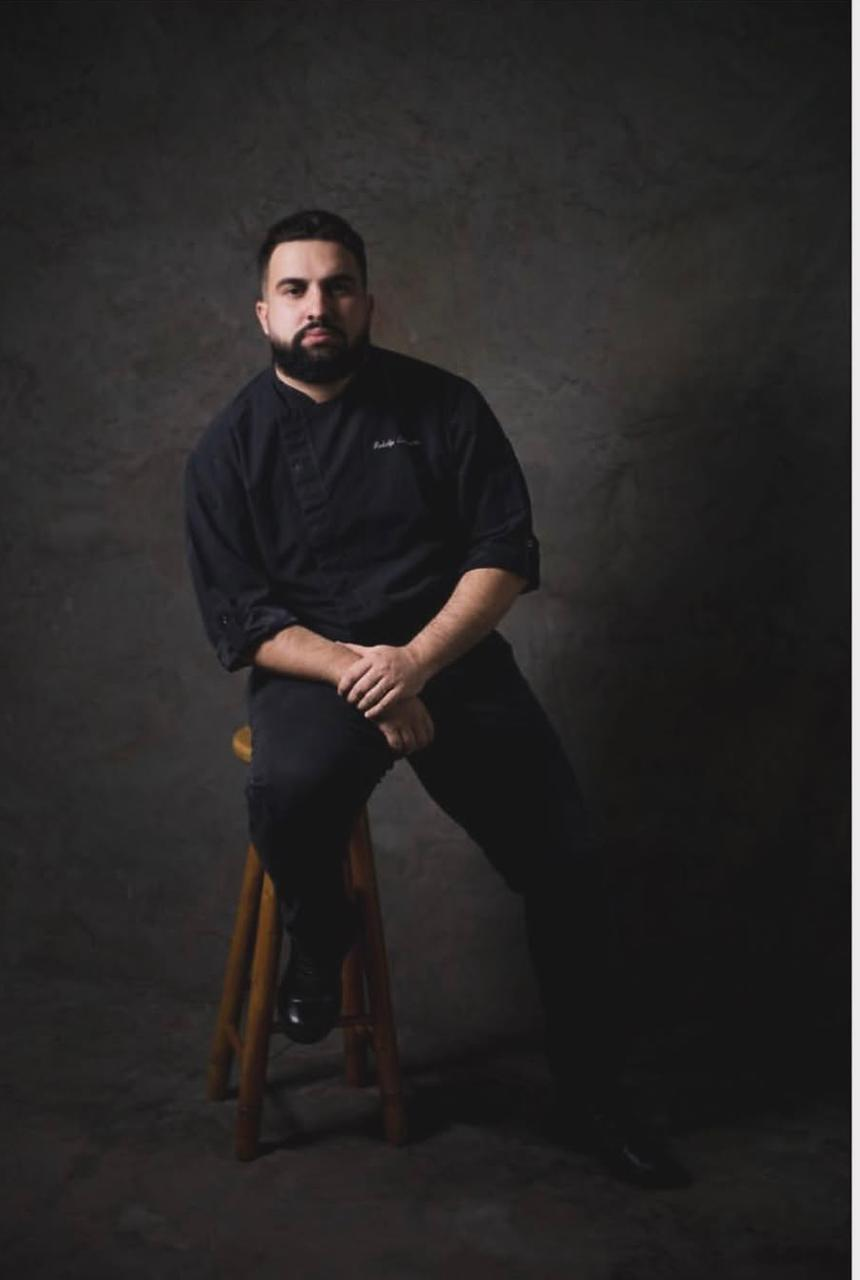
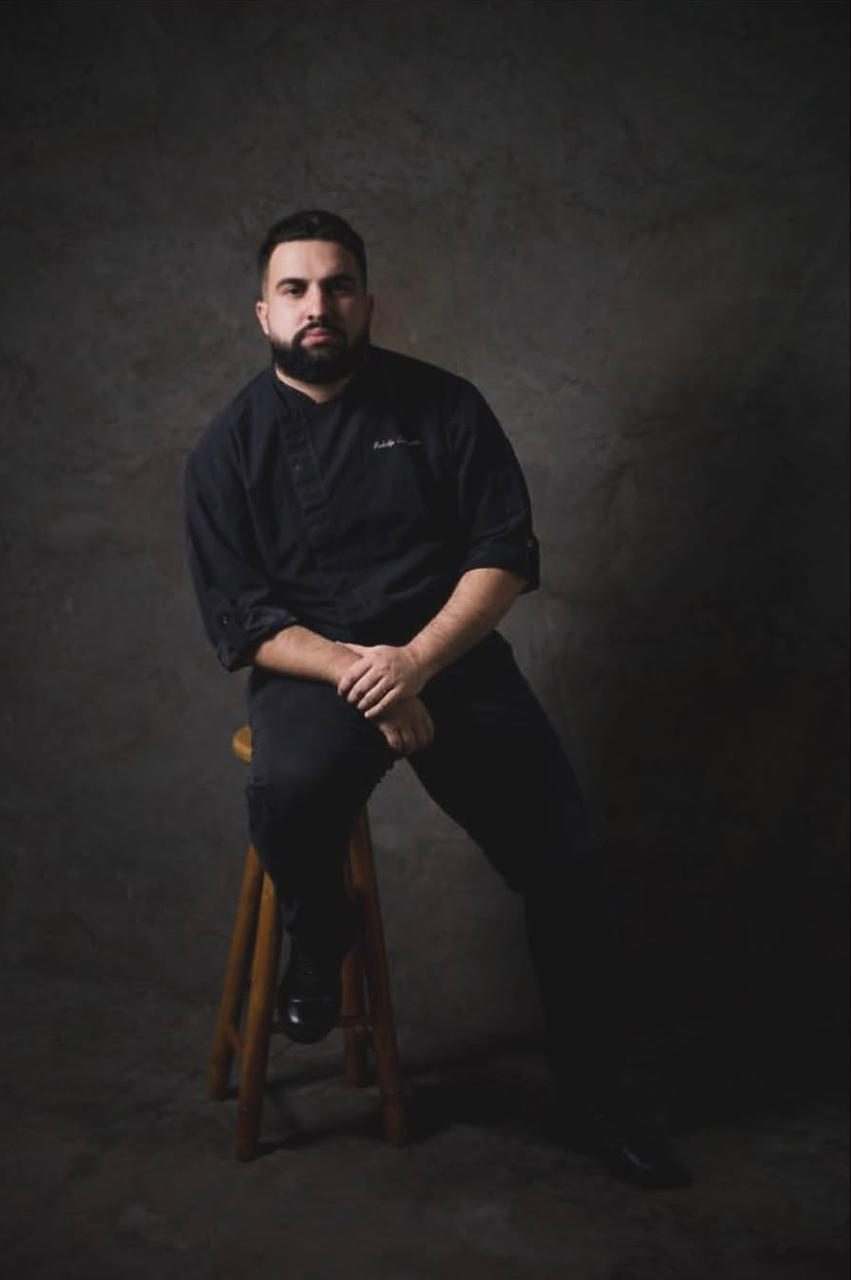
Portal e site · reconferência de UX: "Não enviou" não some antes do envio dar certo, rascunho com hora, barra mais baixa e foto do topo sem a faixa branca
Decisão 471, item 8: o erro de envio fica até um envio dar certo (antes, digitar depois da falha punha "Tudo salvo"
com o formulário nunca enviado); marcação ativa como escolha, não ação; bloqueio do envio calculado na hora, com a
gravação em andamento; "em branco" vai ao próximo sem abrir o teclado; barra do pé de 104 para 80 px; rascunho do
aparelho só volta se for mais novo que a resposta do servidor; foto do topo recortada (faixa branca de 9 px).

Claude-Session: https://claude.ai/code/session_016xSEPD3vQzLdd3b7k9UctE

diff --git a/src/app/portal/[token]/Portal.tsx b/src/app/portal/[token]/Portal.tsx
@@ -52,7 +52,7 @@ export interface ArquivoTela {
 }
 
 export interface EstadoInicial {
-  respostas: Record<string, { texto: string; marcacao: Marcacao | null }>;
+  respostas: Record<string, { texto: string; marcacao: Marcacao | null; em?: string | null }>;
   arquivos: ArquivoTela[];
   finalizadoEm: string | null;
 }
@@ -81,7 +81,9 @@ export default function Portal({
   const [arquivos, setArquivos] = useState<ArquivoTela[]>(inicial.arquivos);
   // Anexos subindo e áudios gravados ainda não salvos: contam para a barra, para o "Enviar" e para o aviso ao sair.
   const [uploads, setUploads] = useState(0);
-  const [audiosPendentes, setAudiosPendentes] = useState<Set<string>>(() => new Set());
+  const [audios, setAudios] = useState<Map<string, 'gravando' | 'pronto'>>(() => new Map());
+  const audiosProntos = [...audios.values()].filter((a) => a === 'pronto').length;
+  const audiosGravando = [...audios.values()].filter((a) => a === 'gravando').length;
   const [recuperados, setRecuperados] = useState(0);
   // Estado de cada cartão, para o retorno visual ficar ao lado do que foi feito.
   const [statusItens, setStatusItens] = useState<Record<string, StatusSalvar>>({});
@@ -103,9 +105,9 @@ export default function Portal({
     (itemId: string, texto: string | null) => {
       try {
         const chave = chaveDoRascunho(token);
-        const atual = JSON.parse(localStorage.getItem(chave) ?? '{}') as Record<string, string>;
+        const atual = JSON.parse(localStorage.getItem(chave) ?? '{}') as Record<string, unknown>;
         if (texto === null) delete atual[itemId];
-        else atual[itemId] = texto;
+        else atual[itemId] = { t: texto, em: Date.now() };
         if (Object.keys(atual).length) localStorage.setItem(chave, JSON.stringify(atual));
         else localStorage.removeItem(chave);
       } catch {
@@ -195,7 +197,9 @@ export default function Portal({
     } catch {
       return;
     }
-    const doServidor = Object.fromEntries(Object.entries(inicial.respostas).map(([k, v]) => [k, v.texto]));
+    const doServidor = Object.fromEntries(
+      Object.entries(inicial.respostas).map(([k, v]) => [k, { texto: v.texto, em: v.em ? Date.parse(v.em) : null }]),
+    );
     const voltar = rascunhosParaRecuperar(rascunhos, doServidor, new Set(q.itens.map((i) => i.id)));
     const ids = Object.keys(voltar);
     if (ids.length === 0) {
@@ -220,7 +224,7 @@ export default function Portal({
   // Fechar ou recarregar com algo que ainda não salvou (sem conexão, áudio gravado, anexo subindo): o navegador pergunta.
   const precisaAvisar = useRef(false);
   precisaAvisar.current =
-    uploads > 0 || audiosPendentes.size > 0 || Object.values(statusItens).some((st) => st === 'erro' || st === 'recusado');
+    uploads > 0 || audios.size > 0 || Object.values(statusItens).some((st) => st === 'erro' || st === 'recusado');
   useEffect(() => {
     const aoSairDaPagina = (e: BeforeUnloadEvent) => {
       if (!precisaAvisar.current) return;
@@ -275,22 +279,24 @@ export default function Portal({
   // Estáveis (useCallback): os cartões avisam por efeito, e uma função nova a cada desenho faria o efeito rodar sem parar.
   const aoUpload = useCallback((delta: number) => setUploads((n) => Math.max(0, n + delta)), []);
   const aoMudarAudio = useCallback(
-    (itemId: string, pendente: boolean) =>
-      setAudiosPendentes((atual) => {
-        if (atual.has(itemId) === pendente) return atual;
-        const novo = new Set(atual);
-        if (pendente) novo.add(itemId);
-        else novo.delete(itemId);
+    (itemId: string, fase: 'nenhum' | 'gravando' | 'pronto') =>
+      setAudios((atual) => {
+        if ((atual.get(itemId) ?? 'nenhum') === fase) return atual;
+        const novo = new Map(atual);
+        if (fase === 'nenhum') novo.delete(itemId);
+        else novo.set(itemId, fase);
         return novo;
       }),
     [],
   );
   const emBranco = useMemo(() => progresso.situacoes.filter((s) => s.estado === 'PENDENTE').map((s) => s.item.id), [progresso]);
   const irParaEmBranco = () => {
-    const id = emBranco[0];
-    if (!id) return;
-    document.getElementById(`item-${id}`)?.scrollIntoView({ behavior: 'smooth', block: 'center' });
-    (document.getElementById(`campo-${id}`) as HTMLTextAreaElement | null)?.focus({ preventScroll: true });
+    if (emBranco.length === 0) return;
+    // O próximo em branco abaixo do que está na tela; no fim, volta ao primeiro. Sem pôr o cursor no campo: no celular o
+    // teclado abriria por cima das marcações ("Não tenho", "Não sei", "Agora não").
+    const limite = window.innerHeight * 0.4;
+    const id = emBranco.find((i) => (document.getElementById(`item-${i}`)?.getBoundingClientRect().top ?? 0) > limite) ?? emBranco[0];
+    document.getElementById(`item-${id}`)?.scrollIntoView({ behavior: 'smooth', block: 'start' });
   };
 
   const blocosArquivo = q.blocos.filter((b) => b.tipo === 'ARQUIVO');
@@ -379,7 +385,7 @@ export default function Portal({
         respondidos={progresso.recebidos + progresso.marcados}
         total={progresso.total}
         finalizadoEm={finalizadoEm}
-        bloqueio={bloqueioDoEnvio(audiosPendentes.size, uploads)}
+        bloqueio={bloqueioDoEnvio(audiosProntos, uploads, audiosGravando)}
         irParaEmBranco={irParaEmBranco}
         antesDeEnviar={async () => {
           await Promise.all([...sujos.current.keys()].map((id) => salvarTexto(id)));
@@ -467,7 +473,7 @@ function CartaoItem({
   aoSubir: (a: ArquivoTela) => void;
   aoRemover: (id: string) => void;
   aoUpload: (delta: number) => void;
-  aoMudarAudio: (itemId: string, pendente: boolean) => void;
+  aoMudarAudio: (itemId: string, fase: 'nenhum' | 'gravando' | 'pronto') => void;
 }) {
   const estado: EstadoItem = estadoDe.get(item.id) ?? 'PENDENTE';
   const marcacao = marcacoes[item.id];
@@ -518,7 +524,7 @@ function CartaoItem({
               onClick={() => aoMarcar(item.id, m)}
               className={`min-h-[44px] border px-3 text-xs font-semibold uppercase tracking-wider transition disabled:opacity-60 ${
                 ativa
-                  ? 'border-footer bg-footer text-creme'
+                  ? 'border-footer bg-footer/10 text-footer ring-1 ring-inset ring-footer'
                   : 'border-footer/30 text-footer/70 hover:border-footer/60'
               }`}
             >
@@ -626,7 +632,7 @@ export function Gravador({
   item: Item;
   aoSubir: (a: ArquivoTela) => void;
   aoUpload?: (delta: number) => void;
-  aoMudarAudio?: (itemId: string, pendente: boolean) => void;
+  aoMudarAudio?: (itemId: string, fase: 'nenhum' | 'gravando' | 'pronto') => void;
 }) {
   const [fase, setFase] = useState<FaseGravacao>('ocioso');
   const [segundos, setSegundos] = useState(0);
@@ -646,13 +652,13 @@ export function Gravador({
   }, []);
 
   // Gravação pronta e ainda não salva: o "Enviar" da barra e o aviso ao sair sabem. Ao sair da tela, deixa de contar.
-  const pendente = fase === 'pronto' || fase === 'gravando';
+  const faseDoAudio = fase === 'gravando' ? 'gravando' : fase === 'pronto' ? 'pronto' : 'nenhum';
   useEffect(() => {
-    aoMudarAudio?.(item.id, pendente);
-  }, [pendente, item.id, aoMudarAudio]);
+    aoMudarAudio?.(item.id, faseDoAudio);
+  }, [faseDoAudio, item.id, aoMudarAudio]);
   const avisarAudio = useRef(aoMudarAudio);
   avisarAudio.current = aoMudarAudio;
-  useEffect(() => () => avisarAudio.current?.(item.id, false), [item.id]);
+  useEffect(() => () => avisarAudio.current?.(item.id, 'nenhum'), [item.id]);
 
   const pararRelogio = () => {
     if (relogio.current) clearInterval(relogio.current);
@@ -945,18 +951,32 @@ function BarraEnviar({
   aoEnviar: (quando: string) => void;
 }) {
   const [enviando, setEnviando] = useState(false);
-  const [erro, setErro] = useState<string | null>(null);
+  // 'salvar': faltou salvar uma resposta (some quando tudo salva); 'envio': o envio falhou (fica até um envio dar certo:
+  // "Tudo salvo" no lugar faria o cliente fechar achando que enviou).
+  const [falha, setFalha] = useState<null | 'salvar' | 'envio'>(null);
+  const [tentouComBloqueio, setTentouComBloqueio] = useState(false);
   const pct = total > 0 ? Math.round((respondidos / total) * 100) : 0;
 
-  // O erro de envio sai quando tudo salvou (antes ficava na tela depois que a rede voltava).
   useEffect(() => {
-    if (status === 'salvo') setErro(null);
-  }, [status]);
+    if (status === 'salvo' && falha === 'salvar') setFalha(null);
+  }, [status, falha]);
+  // O aviso do bloqueio é calculado na hora: some quando o áudio é salvo ou descartado e o anexo termina.
+  useEffect(() => {
+    if (!bloqueio) setTentouComBloqueio(false);
+  }, [bloqueio]);
+  const erro =
+    tentouComBloqueio && bloqueio
+      ? bloqueio
+      : falha === 'salvar'
+        ? 'Não enviou: falta salvar uma resposta. Tente de novo.'
+        : falha === 'envio'
+          ? 'Não enviou. O que você escreveu está salvo; tente enviar de novo em instantes.'
+          : null;
 
   const enviar = async () => {
-    // Áudio gravado e não salvo, ou anexo subindo: o "Enviar" não passa por cima (antes salvava só o texto).
+    // Gravação em andamento, áudio gravado e não salvo, ou anexo subindo: o "Enviar" não passa por cima.
     if (bloqueio) {
-      setErro(bloqueio);
+      setTentouComBloqueio(true);
       return;
     }
     const aviso =
@@ -966,17 +986,18 @@ function BarraEnviar({
     if (!window.confirm(aviso)) return;
 
     setEnviando(true);
-    setErro(null);
     const salvou = await antesDeEnviar();
     if (!salvou) {
       setEnviando(false);
-      setErro('Não enviou: falta salvar uma resposta. Tente de novo.');
+      setFalha('salvar');
       return;
     }
     const r = await fetch(`/api/portal/${token}/finalizar`, { method: 'POST' }).catch(() => null);
     setEnviando(false);
-    if (r?.ok) aoEnviar(new Date().toISOString());
-    else setErro('Não enviou. Tente de novo em instantes.');
+    if (r?.ok) {
+      setFalha(null);
+      aoEnviar(new Date().toISOString());
+    } else setFalha('envio');
   };
 
   return (
@@ -990,7 +1011,7 @@ function BarraEnviar({
             {respondidos} de {total}
             {pendentes > 0 && (
               // Leva ao próximo item em branco: com 50 itens, achar o que falta rolando é o que cansa.
-              <button type="button" onClick={irParaEmBranco} className="ml-1 inline-flex min-h-[44px] items-center font-normal text-footer/70 underline decoration-footer/40 underline-offset-4 hover:decoration-footer">
+              <button type="button" onClick={irParaEmBranco} className="-my-3 ml-1 inline-flex min-h-[44px] items-center font-normal text-footer/70 underline decoration-footer/40 underline-offset-4 hover:decoration-footer">
                 · {pendentes} em branco
               </button>
             )}

diff --git a/src/lib/portal/tela.ts b/src/lib/portal/tela.ts
@@ -51,19 +51,39 @@ export function textoDoEnviado(iso: string): string {
   return `Enviado ao Rodolfo em ${dia}, às ${hora}. O que você mudar continua salvo.`;
 }
 
-/** O que impede o envio agora (áudio gravado e não salvo, anexo subindo), ou null. */
-export function bloqueioDoEnvio(audiosPendentes: number, uploads: number): string | null {
+/** O que impede o envio agora (gravação em andamento, áudio gravado e não salvo, anexo subindo), ou null. Calculado na hora. */
+export function bloqueioDoEnvio(audiosPendentes: number, uploads: number, gravando = 0): string | null {
+  if (gravando > 0) return 'Há uma gravação em andamento. Toque em “Parar” e depois em “Salvar áudio”.';
   if (audiosPendentes > 0) return `Há ${audiosPendentes === 1 ? 'um áudio gravado' : `${audiosPendentes} áudios gravados`} que ainda não ${audiosPendentes === 1 ? 'foi salvo' : 'foram salvos'}. Toque em “Salvar áudio” no item.`;
   if (uploads > 0) return 'Espere o anexo terminar de subir.';
   return null;
 }
 
-/** Os rascunhos do aparelho que diferem do que o servidor tem (os iguais já estão salvos e não voltam). */
-export function rascunhosParaRecuperar(rascunhos: Record<string, unknown>, doServidor: Record<string, string>, itensValidos: Set<string>): Record<string, string> {
+/** Um rascunho guardado no aparelho: o texto e quando foi escrito. */
+export interface Rascunho {
+  t: string;
+  em: number;
+}
+
+/**
+ * Os rascunhos do aparelho que devem voltar: diferentes do que o servidor tem E escritos depois da resposta do servidor.
+ * Sem a hora, um rascunho antigo do celular apagaria a resposta que o cliente deu depois no computador. Rascunho sem hora
+ * (formato antigo) só volta se o servidor não tem resposta.
+ */
+export function rascunhosParaRecuperar(
+  rascunhos: Record<string, unknown>,
+  doServidor: Record<string, { texto: string; em: number | null }>,
+  itensValidos: Set<string>,
+): Record<string, string> {
   const saida: Record<string, string> = {};
-  for (const [id, texto] of Object.entries(rascunhos)) {
-    if (!itensValidos.has(id) || typeof texto !== 'string') continue;
-    if (texto !== (doServidor[id] ?? '')) saida[id] = texto;
+  for (const [id, valor] of Object.entries(rascunhos)) {
+    if (!itensValidos.has(id)) continue;
+    const servidor = doServidor[id];
+    const texto = typeof valor === 'string' ? valor : valor && typeof valor === 'object' && typeof (valor as Rascunho).t === 'string' ? (valor as Rascunho).t : null;
+    if (texto === null || texto === (servidor?.texto ?? '')) continue;
+    const em = typeof valor === 'object' && valor && typeof (valor as Rascunho).em === 'number' ? (valor as Rascunho).em : null;
+    const servidorTemResposta = !!servidor?.texto;
+    if (em === null ? !servidorTemResposta : !servidorTemResposta || servidor.em === null || em > servidor.em) saida[id] = texto;
   }
   return saida;
 }

diff --git a/tests/portal-tela.test.ts b/tests/portal-tela.test.ts
@@ -40,12 +40,21 @@ describe('E5.1 · Portal do cliente: estado, selo, envio e rascunho', () => {
     expect(bloqueioDoEnvio(1, 0)).toBe('Há um áudio gravado que ainda não foi salvo. Toque em “Salvar áudio” no item.');
     expect(bloqueioDoEnvio(2, 1)).toMatch(/^Há 2 áudios gravados que ainda não foram salvos/);
     expect(bloqueioDoEnvio(0, 1)).toBe('Espere o anexo terminar de subir.');
+    expect(bloqueioDoEnvio(1, 0, 1)).toBe('Há uma gravação em andamento. Toque em “Parar” e depois em “Salvar áudio”.');
   });
 
-  it('o rascunho do aparelho só volta quando difere do servidor, e só para itens do formulário', () => {
-    const r = rascunhosParaRecuperar({ a: 'novo texto', b: 'igual', c: 'item que não existe', d: 42 }, { a: 'antigo', b: 'igual' }, new Set(['a', 'b', 'd']));
+  it('o rascunho do aparelho só volta quando difere do servidor e é mais novo que a resposta de lá', () => {
+    const servidor = { a: { texto: 'antigo', em: 1000 }, b: { texto: 'igual', em: 1000 }, f: { texto: 'respondido no computador', em: 5000 } };
+    const r = rascunhosParaRecuperar(
+      { a: { t: 'novo texto', em: 2000 }, b: { t: 'igual', em: 9000 }, c: { t: 'item que não existe', em: 9000 }, d: 42, f: { t: 'rascunho velho do celular', em: 3000 } },
+      servidor,
+      new Set(['a', 'b', 'd', 'f']),
+    );
+    // f: o cliente respondeu no computador depois; o rascunho velho do celular não apaga a resposta nova.
     expect(r).toEqual({ a: 'novo texto' });
-    expect(rascunhosParaRecuperar({ e: 'escrito sem conexão' }, {}, new Set(['e']))).toEqual({ e: 'escrito sem conexão' });
+    expect(rascunhosParaRecuperar({ e: { t: 'escrito sem conexão', em: 1 } }, {}, new Set(['e']))).toEqual({ e: 'escrito sem conexão' });
+    // Formato antigo (sem hora): só volta se o servidor não tem resposta.
+    expect(rascunhosParaRecuperar({ e: 'texto', a: 'texto' }, { a: { texto: 'resposta', em: 1 } }, new Set(['e', 'a']))).toEqual({ e: 'texto' });
     expect(chaveDoRascunho('tok')).toBe('ff-portal-rascunho:tok');
   });
 });

diff --git a/src/app/portal/[token]/page.tsx b/src/app/portal/[token]/page.tsx
@@ -24,7 +24,7 @@ export default async function PortalPage({ params }: { params: { token: string }
   const [respostas, arquivos] = await Promise.all([
     prisma.portalResposta.findMany({
       where: { clienteId: c.cliente.id },
-      select: { itemId: true, texto: true, marcacao: true },
+      select: { itemId: true, texto: true, marcacao: true, atualizadoEm: true },
     }),
     prisma.portalArquivo.findMany({
       where: { clienteId: c.cliente.id },
@@ -35,7 +35,8 @@ export default async function PortalPage({ params }: { params: { token: string }
 
   const inicial: EstadoInicial = {
     respostas: Object.fromEntries(
-      respostas.map((r) => [r.itemId, { texto: r.texto ?? '', marcacao: r.marcacao }]),
+      // A hora da resposta: o rascunho do aparelho só volta se for mais novo (decisão 471).
+      respostas.map((r) => [r.itemId, { texto: r.texto ?? '', marcacao: r.marcacao, em: r.atualizadoEm.toISOString() }]),
     ),
     arquivos,
     finalizadoEm: c.cliente.finalizadoEm?.toISOString() ?? null,

diff --git a/src/components/Hero.tsx b/src/components/Hero.tsx
@@ -64,7 +64,7 @@ export default function Hero() {
             <img
               src="/images/galeria/foto-7.jpg"
               alt="Rodolfo Cavalcante, chef e consultor da FlowFoods"
-              width={860}
+              width={851}
               height={1280}
               className="aspect-[3/4] w-full object-cover object-top"
             />

diff --git a/src/app/layout.tsx b/src/app/layout.tsx
@@ -42,7 +42,7 @@ export const metadata: Metadata = {
     images: [
       {
         url: '/images/galeria/foto-7.jpg',
-        width: 860,
+        width: 851,
         height: 1280,
         alt: 'Rodolfo Cavalcante — FlowFoods Consultoria',
       },

diff --git a/docs/DECISOES.md b/docs/DECISOES.md
@@ -3243,6 +3243,8 @@ pré-preparo com custo incompleto = valor pendente, nunca "R$ 0,00" como fato
 6. **Portal do cliente, achados da revisão de UX (9 "deve"), para o cliente não perder resposta nem ficar sem saber se enviou** (`src/lib/portal/tela.ts`, puro e testado): (a) a barra sai dos cartões — um erro em qualquer cartão vence "Tudo salvo" (antes um anexo punha "Tudo salvo" com texto falhando, e uma marcação que falhava deixava "Sem conexão. Tentando de novo…" para sempre, sem tentar); (b) a marcação que falha diz "Não marcou. Toque de novo."; texto recusado pelo servidor (4xx) não repete à toa e diz "texto longo demais" (o campo também não passa de 20 mil caracteres); (c) a confirmação do envio sai inteira, com dia e hora ("Enviado ao Rodolfo em 25/10, às 14:32. O que você mudar continua salvo."), e o botão vira "Avisar de novo" — a 390 px ela saía pela metade; o erro de envio some quando tudo salva; (d) "Enviar áudio" virou "Salvar áudio" (tinha o mesmo nome e a mesma cor do "Enviar" da barra) e o "Enviar" não passa por cima de áudio gravado e não salvo nem de anexo subindo; (e) sem conexão, fechar a aba pergunta antes, e o texto não confirmado fica guardado no aparelho e volta ao reabrir ("Recuperamos uma resposta que você escreveu sem conexão."); o selo diz "Não salvo" enquanto o cartão está em erro (antes "Respondido" ao lado de "Não salvou"); (f) link errado ou antigo, falha ao abrir e endereço inexistente: páginas em português, com o WhatsApp (antes o 404 padrão em inglês). Também: selo em etiqueta de 12 px (com o nome da marcação, "Não tenho"), cantos retos, marcação ativa em preto (o vermelho fica no "Enviar"), borda do campo a 45% (era 1,4:1), placeholder a 60%, barra do pé sólida, "N em branco" leva ao próximo item em branco, "Salva sozinho. Pode fechar e voltar por este link."
 7. **Site, da mesma revisão:** 44 px sempre, não só no toque (notebook com tela de toque e iPad com trackpad se apresentam como mouse); cabeçalho sólido com filete fino (sem vidro); campos do "Comece" com borda a 45% (era 2:1); a barra do navegador acompanha o tema; a paleta escura é a mesma do sistema (cartão #161513, faixa #1F1D1B).
 
+8. **Reconferência do revisor de UX: site ok; Portal ok com um ajuste antes de ir ao cliente, feito:** se o envio falhava e o cliente digitava depois, a barra voltava a "Tudo salvo. Pode fechar…" com o formulário nunca enviado — agora "Não enviou. O que você escreveu está salvo; tente enviar de novo em instantes." fica até um envio dar certo (só o "falta salvar" some quando tudo salva). "Deveria" também feitos: a marcação ativa é contorno com fundo leve (o preto cheio fica para "Anexar arquivo", que é ação); o aviso do envio bloqueado é calculado na hora (some ao salvar ou descartar o áudio; durante a gravação diz "Toque em Parar e depois em Salvar áudio"); "em branco" vai ao próximo item abaixo do que está na tela, sem pôr o cursor (o teclado cobria as marcações); a barra do pé baixou de 104 para 80 px em pé e de 88 para 75 deitado, mantendo o alvo de 44 px; o rascunho do aparelho guarda a hora e só volta se for mais novo que a resposta do servidor (um rascunho velho do celular não apaga a resposta dada depois no computador); a foto do topo do site perdeu a faixa branca de 9 px da borda direita (agora 851 × 1280, 41 KB).
+
 **Prova:** matriz de 24 telas (site e Portal × 6 tamanhos × claro e escuro): 0 falhas; auditoria de contraste de cada texto contra o fundo real, claro e escuro, a 390 e 1440: 0 abaixo do mínimo (eram 160 na linha de base, já no claro); comportamento do Portal com a API simulada no navegador (sem conexão, aviso ao sair, rascunho recuperado, marcação que falha, texto recusado, envio e "em branco"): todos ok, banco local intacto. **Achado do roteiro, não do produto:** uma primeira versão do roteiro simulava a API só na primeira aba, e a segunda aba salvou de verdade uma resposta de teste no Portal local; a resposta foi apagada e a data de atividade voltou a vazio no mesmo minuto.
 
 **Reverter:** voltar as cores de `tailwind.config.ts` para os hex fixos e tirar `.ff-site` (o site volta a ser só claro); os valores antigos de cada token estão nesta decisão; o comportamento do Portal volta com `git revert` do commit desta decisão (nada no banco muda).
